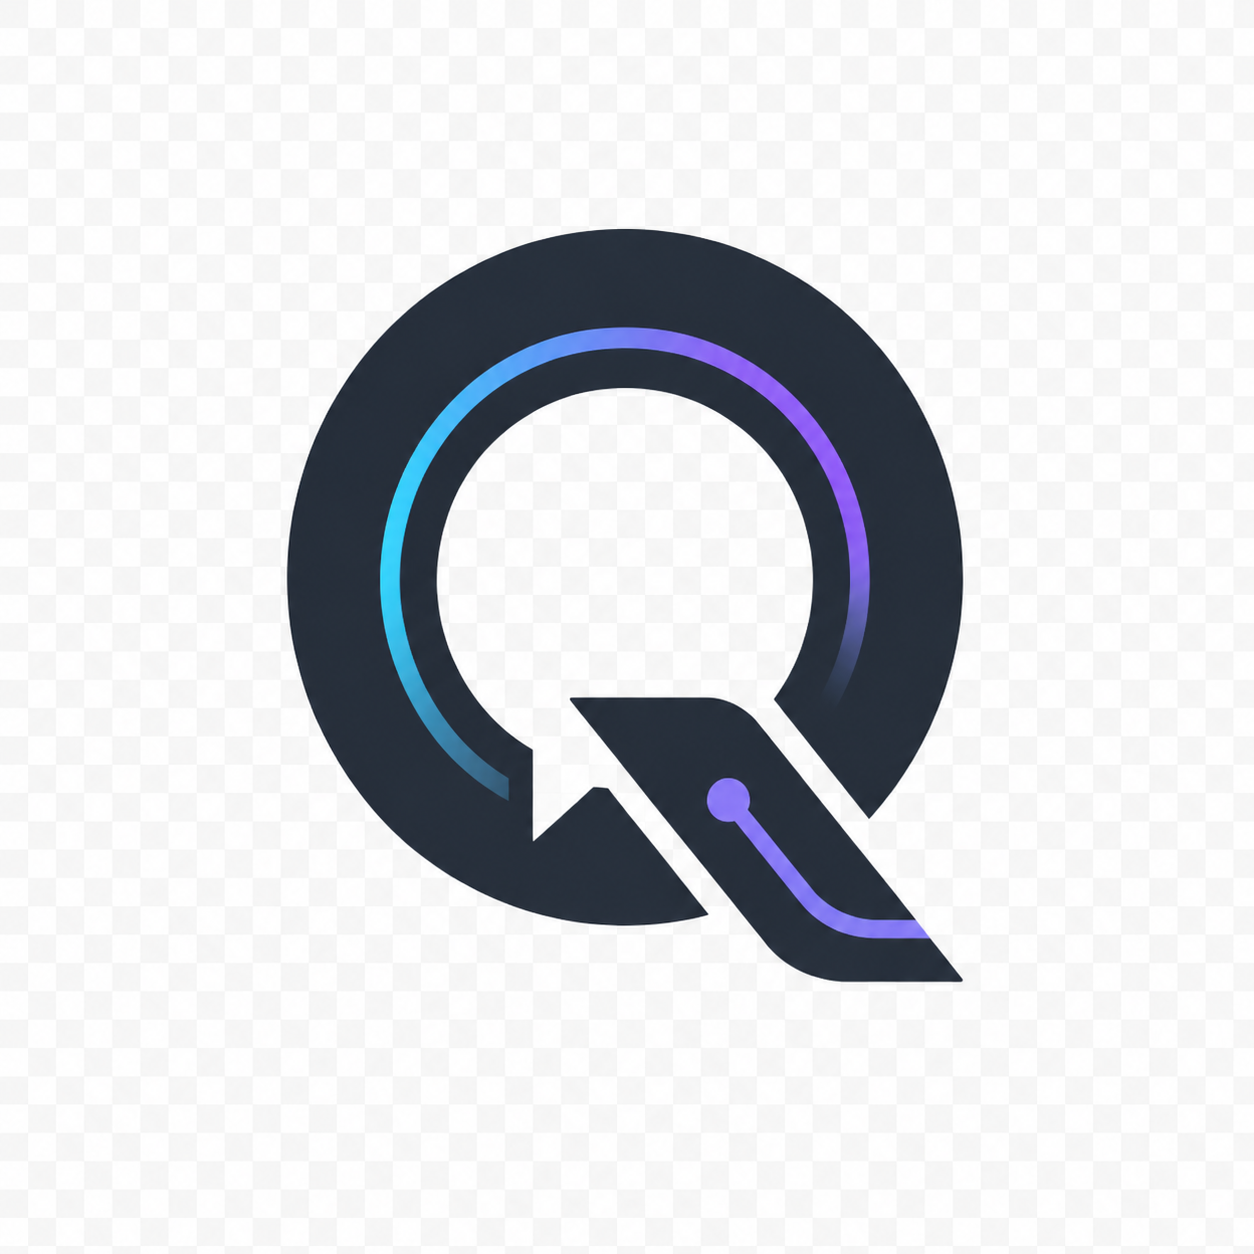
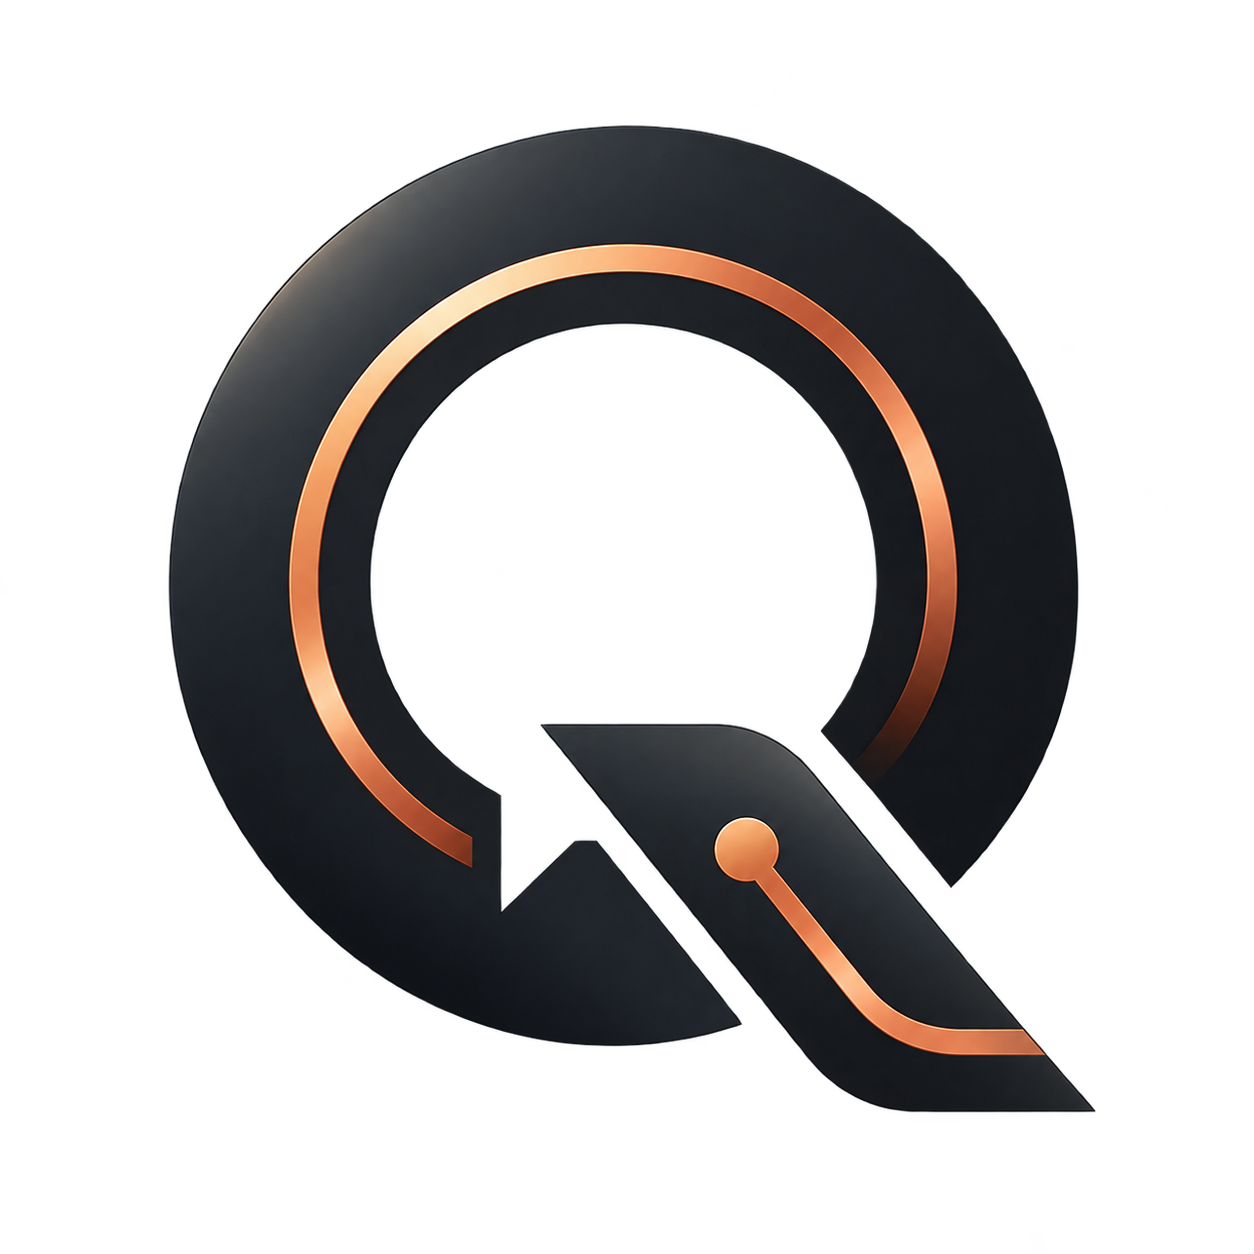
Update Qryptana branding and appearance

diff --git a/apps/multiplatform/common/src/desktopMain/kotlin/chat/simplex/common/DesktopApp.kt b/apps/multiplatform/common/src/desktopMain/kotlin/chat/simplex/common/DesktopApp.kt
@@ -122,19 +122,19 @@ private fun ApplicationScope.AppWindow(closedByError: MutableState<Boolean>) {
   simplexWindowState.windowState = windowState
   // Reload all strings in all @Composable's after language change at runtime
   if (remember { ChatController.appPrefs.appLanguage.state }.value != "") {
-    Window(state = windowState, visible = simplexWindowState.windowVisible.value, icon = painterResource(MR.images.ic_simplex), onCloseRequest = { handleCloseRequest(closedByError) }, onKeyEvent = {
+    Window(state = windowState, visible = simplexWindowState.windowVisible.value, icon = painterResource(MR.images.qryptana_symbol), onCloseRequest = { handleCloseRequest(closedByError) }, onKeyEvent = {
       if (it.key == Key.Escape && it.type == KeyEventType.KeyUp) {
         simplexWindowState.backstack.lastOrNull()?.invoke() != null
       } else {
         false
       }
-    }, title = "SimpleX") {
+    }, title = "Qryptana") {
 //      val hardwareAccelerationDisabled = remember { listOf(GraphicsApi.SOFTWARE_FAST, GraphicsApi.SOFTWARE_COMPAT, GraphicsApi.UNKNOWN).contains(window.renderApi) }
       simplexWindowState.window = window
       AppScreen()
       if (simplexWindowState.openDialog.isAwaiting) {
         FileDialogChooser(
-          title = "SimpleX",
+          title = "Qryptana",
           isLoad = true,
           params = simplexWindowState.openDialog.params,
           onResult = {
@@ -145,7 +145,7 @@ private fun ApplicationScope.AppWindow(closedByError: MutableState<Boolean>) {
 
       if (simplexWindowState.openMultipleDialog.isAwaiting) {
         FileDialogChooser(
-          title = "SimpleX",
+          title = "Qryptana",
           isLoad = true,
           params = simplexWindowState.openMultipleDialog.params,
           onResult = {
@@ -156,7 +156,7 @@ private fun ApplicationScope.AppWindow(closedByError: MutableState<Boolean>) {
 
       if (simplexWindowState.saveDialog.isAwaiting) {
         FileDialogChooser(
-          title = "SimpleX",
+          title = "Qryptana",
           isLoad = false,
           params = simplexWindowState.saveDialog.params,
           onResult = { simplexWindowState.saveDialog.onResult(it.firstOrNull()) }

diff --git a/apps/multiplatform/android/src/main/java/chat/simplex/app/views/call/CallActivity.kt b/apps/multiplatform/android/src/main/java/chat/simplex/app/views/call/CallActivity.kt
@@ -47,6 +47,7 @@ import chat.simplex.common.views.helpers.*
 import chat.simplex.res.MR
 import com.google.accompanist.permissions.rememberMultiplePermissionsState
 import dev.icerock.moko.resources.compose.stringResource
+import dev.icerock.moko.resources.compose.painterResource as mokoPainterResource
 import kotlinx.coroutines.launch
 import kotlinx.datetime.Clock
 import java.lang.ref.WeakReference
@@ -399,7 +400,7 @@ fun IncomingCallLockScreenAlertLayout(
 @Composable
 private fun SimpleXLogo() {
   Image(
-    painter = painterResource(if (isInDarkTheme()) R.drawable.logo_light else R.drawable.logo),
+    painter = mokoPainterResource(MR.images.qryptana_symbol),
     contentDescription = stringResource(MR.strings.image_descr_simplex_logo),
     modifier = Modifier
       .padding(vertical = DEFAULT_PADDING)

diff --git a/apps/multiplatform/common/src/commonMain/kotlin/chat/simplex/common/views/usersettings/Appearance.kt b/apps/multiplatform/common/src/commonMain/kotlin/chat/simplex/common/views/usersettings/Appearance.kt
@@ -64,9 +64,9 @@ object AppearanceScope {
         val size = 60
         Box(Modifier.offset(x = -(size / 12).dp)) {
           if (!image.isNullOrEmpty()) {
-            ProfileImage(size.dp, image, MR.images.ic_simplex_light, color = Color.Unspecified)
+            ProfileImage(size.dp, image, MR.images.qryptana_symbol, color = Color.Unspecified)
           } else {
-            ProfileImage(size.dp, if (isInDarkTheme()) MR.images.ic_simplex_light else MR.images.ic_simplex_dark)
+            ProfileImage(size.dp, MR.images.qryptana_symbol)
           }
         }
         Spacer(Modifier.width(DEFAULT_PADDING_HALF - (size / 12).dp))

diff --git a/apps/multiplatform/common/src/desktopMain/kotlin/chat/simplex/common/DesktopTray.kt b/apps/multiplatform/common/src/desktopMain/kotlin/chat/simplex/common/DesktopTray.kt
@@ -60,11 +60,7 @@ fun ApplicationScope.SimplexTray() {
       }
     }
   }
-  val iconRes = if (unread > 0) {
-    if (isInDarkTheme()) MR.images.ic_simplex_tray_dot_light else MR.images.ic_simplex_tray_dot
-  } else {
-    if (isInDarkTheme()) MR.images.ic_simplex_tray_light else MR.images.ic_simplex
-  }
+  val iconRes = MR.images.qryptana_symbol
   val tooltip =
     if (unread > 0) stringResource(MR.strings.tray_tooltip_unread, unread)
     else stringResource(MR.strings.tray_tooltip)

diff --git a/apps/multiplatform/common/src/commonMain/kotlin/chat/simplex/common/views/onboarding/SimpleXInfo.kt b/apps/multiplatform/common/src/commonMain/kotlin/chat/simplex/common/views/onboarding/SimpleXInfo.kt
@@ -174,7 +174,7 @@ fun SimpleXInfoLayout(
 @Composable
 fun SimpleXLogo() {
   Image(
-    painter = painterResource(if (isInDarkTheme()) MR.images.logo_light else MR.images.logo),
+    painter = painterResource(MR.images.qryptana_symbol),
     contentDescription = stringResource(MR.strings.image_descr_simplex_logo),
     contentScale = ContentScale.FillWidth,
     modifier = Modifier

diff --git a/apps/multiplatform/common/src/androidMain/kotlin/chat/simplex/common/views/usersettings/Appearance.android.kt b/apps/multiplatform/common/src/androidMain/kotlin/chat/simplex/common/views/usersettings/Appearance.android.kt
@@ -39,8 +39,8 @@ import dev.icerock.moko.resources.compose.painterResource
 import kotlinx.coroutines.delay
 
 enum class AppIcon(val image: ImageResource) {
-  DEFAULT(MR.images.ic_simplex_light),
-  DARK_BLUE(MR.images.ic_simplex_dark),
+  DEFAULT(MR.images.qryptana_symbol),
+  DARK_BLUE(MR.images.qryptana_symbol),
 }
 
 @Composable
